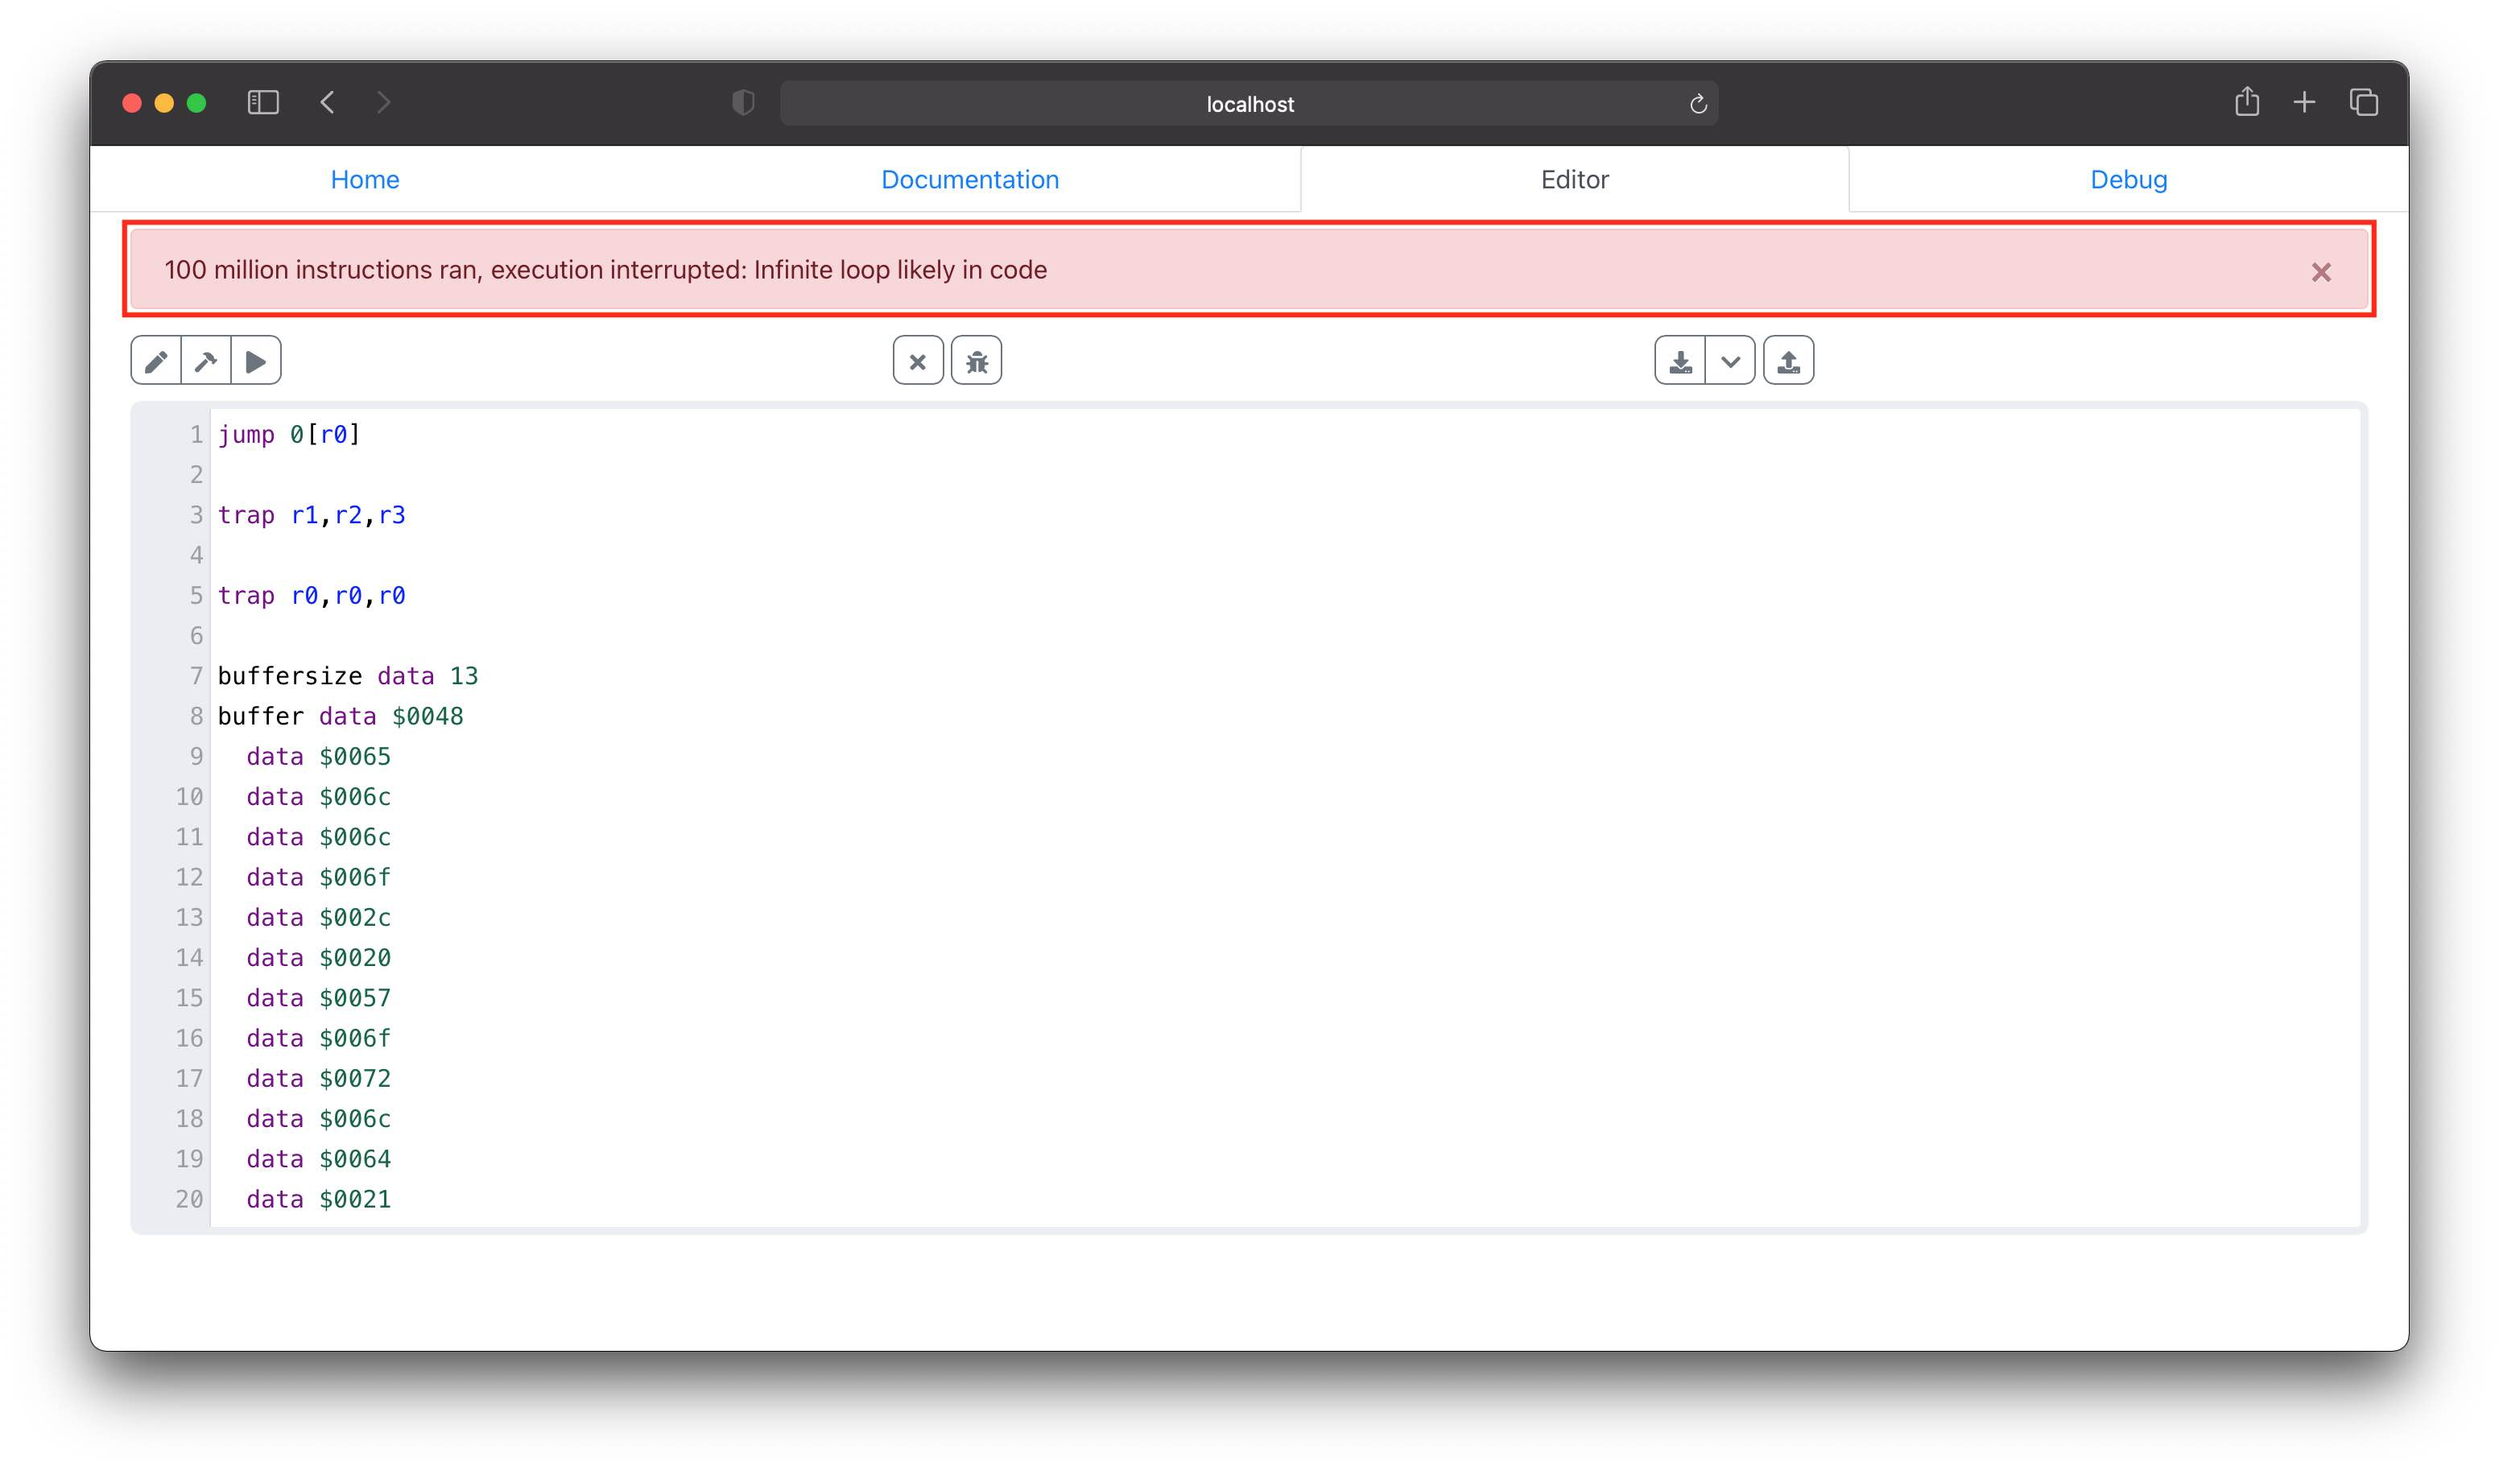
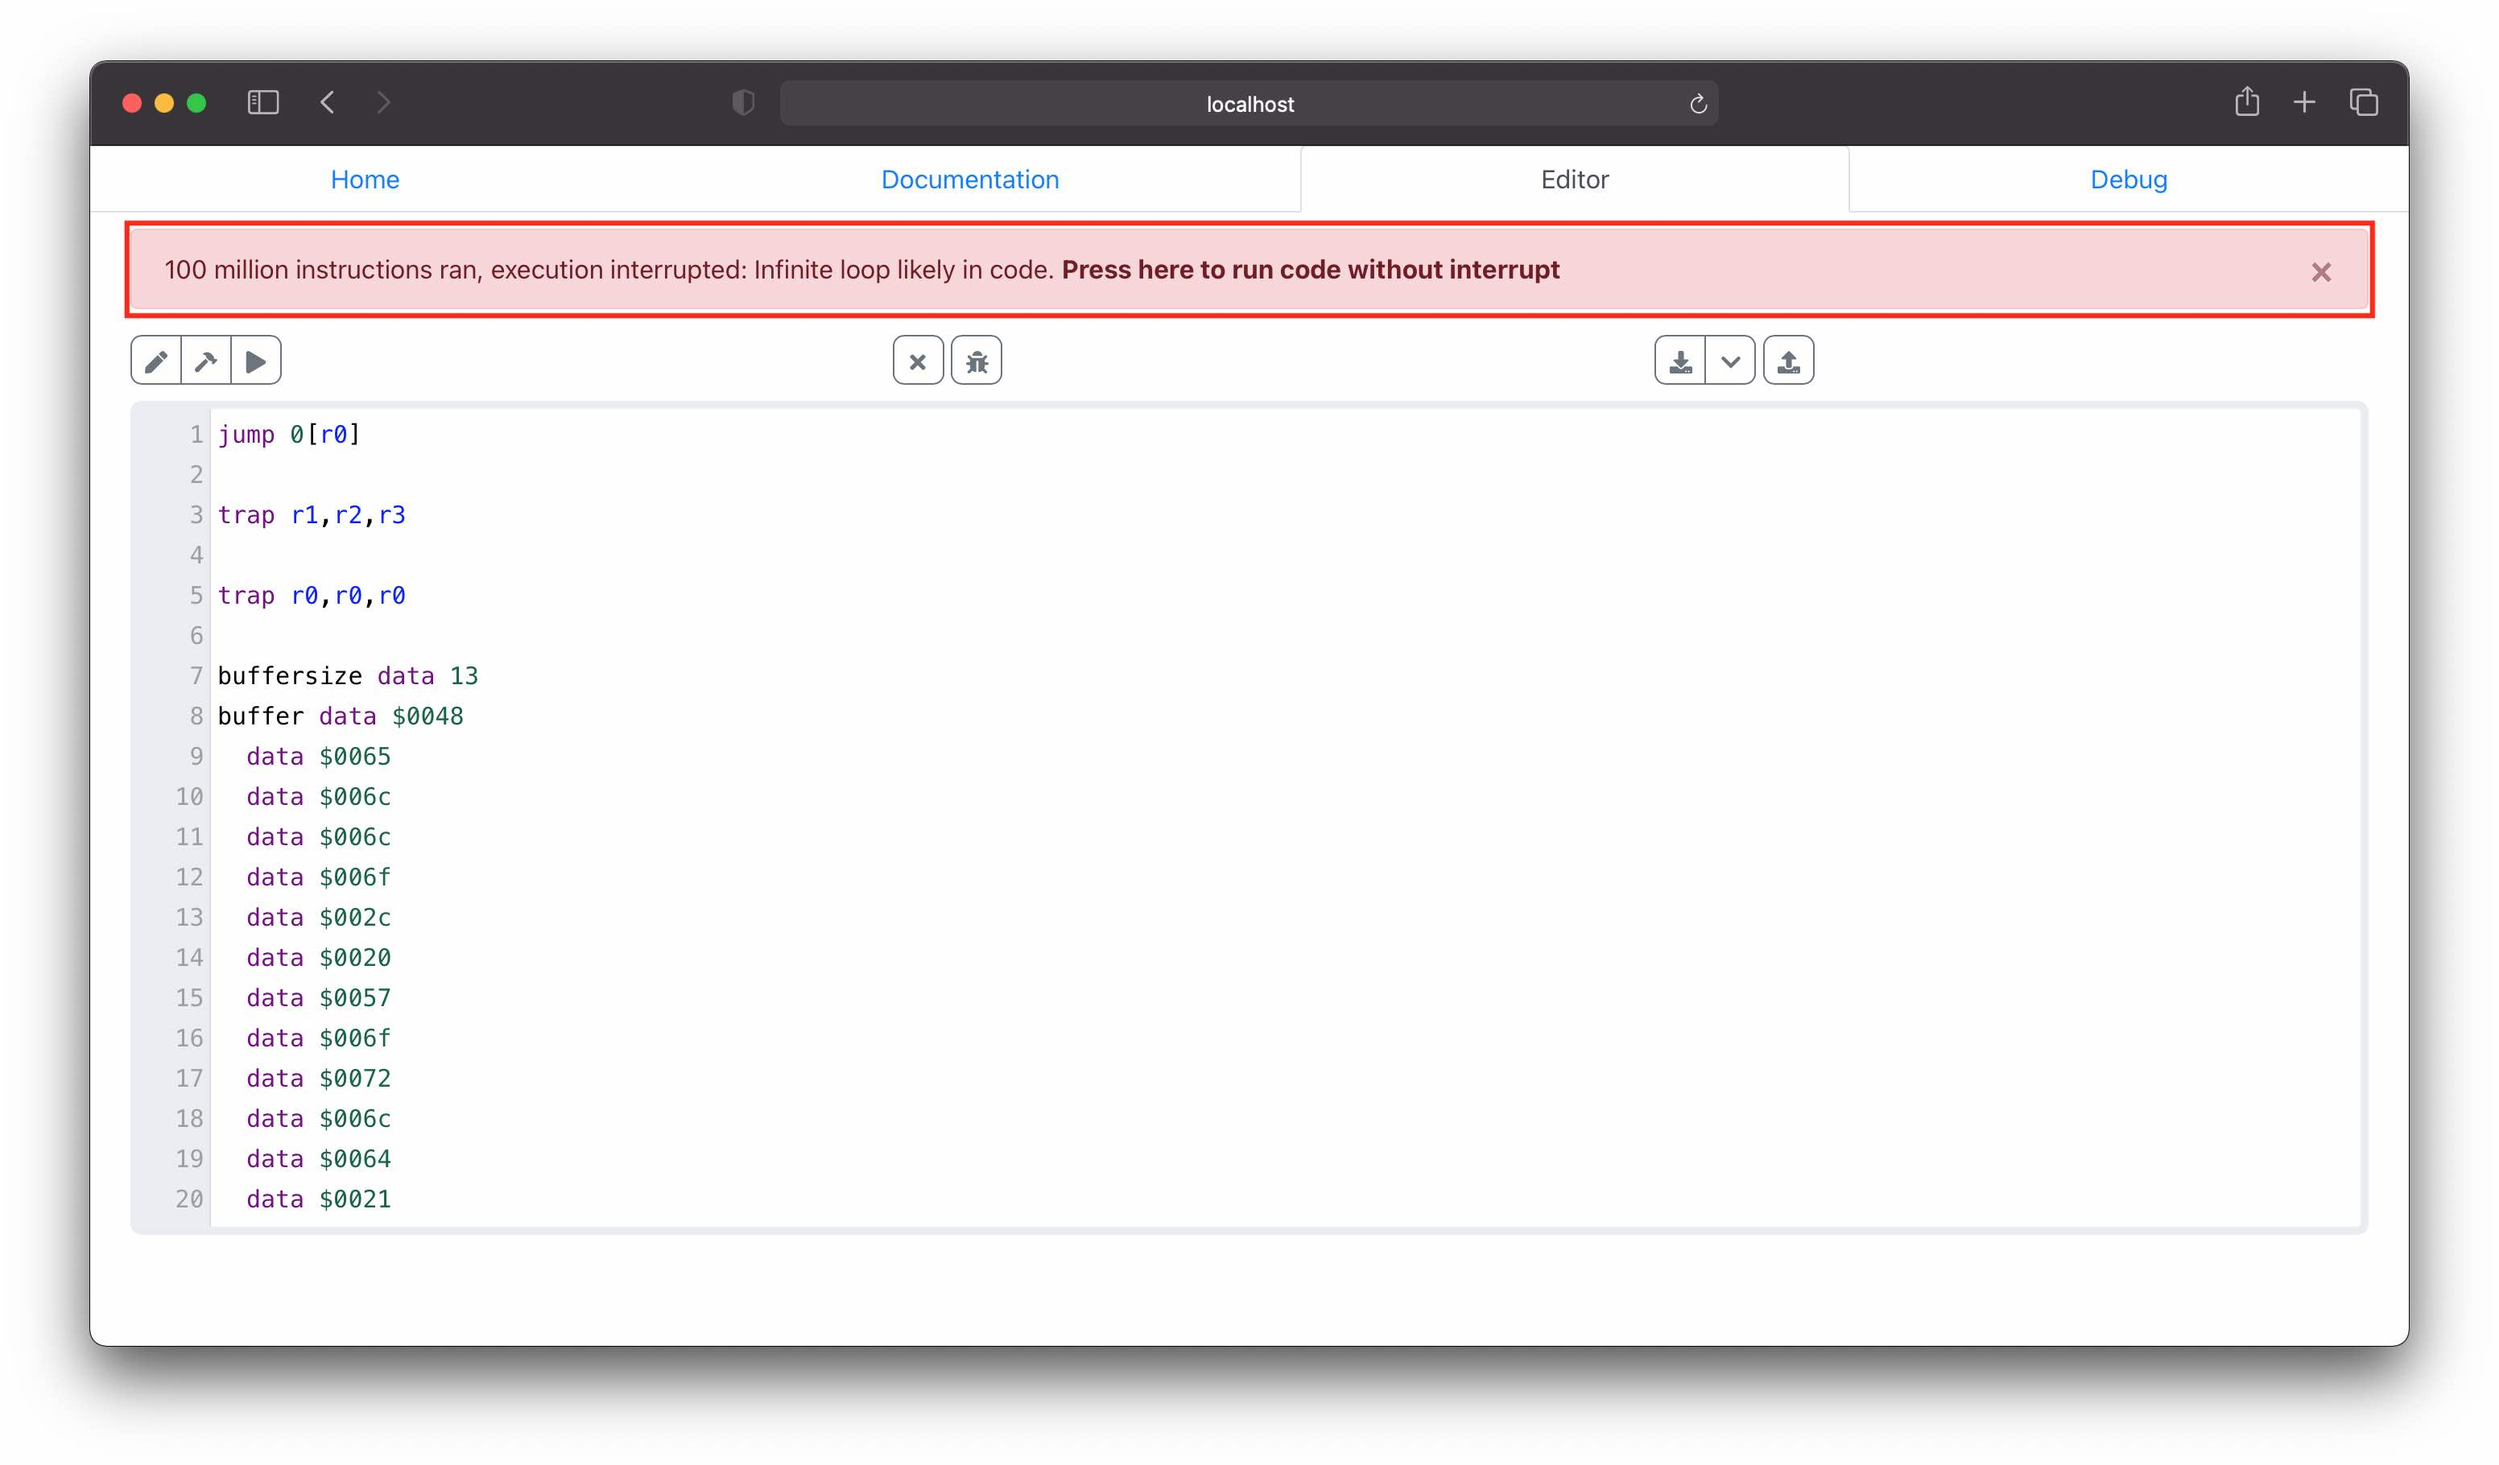
added documemtation for optionality

diff --git a/src/components/DocumentationView.js b/src/components/DocumentationView.js
@@ -2001,7 +2001,18 @@ export default class DocumentationView extends React.Component {
                       
                       <img style={{width : '100%', height : '100%'}} src={`${process.env.PUBLIC_URL}/docs/debugging12.jpg`} alt='Red box around infinite loop error'/><br/>
 
-                      The <strong>results</strong> of running the program till that point will however still be <strong>displayed</strong>
+                      The <strong>results</strong> of running the program till that point will however still be <strong>displayed</strong> <br/>
+
+                      <br/>
+
+                      There is the <strong>option</strong> to, however, <strong>run</strong> the program <strong>without</strong> the <strong>interrupt</strong>. <strong>However</strong>, this is <strong>risky</strong> as <strong>if</strong> there is an <strong>infinite</strong> loop, the <strong>website</strong> will <strong>hang</strong> <br/>
+                      This can be done by <strong>pressing</strong> the enboldened <strong>text</strong> in the alert <br/>
+
+                      <br/>
+
+                      This <strong>interrupt</strong> pauses execution in <strong>both</strong> the Editor and Debug <strong>tabs</strong> <br/>
+
+                      <img style={{width : '100%', height : '100%'}} src={`${process.env.PUBLIC_URL}/docs/debugging13.jpg`} alt='Red box around infinite loop error in Debug tab'/><br/>
                     </div>
                   </InfoArea>
                   <InfoArea state={this.state} title={'Semantic errors - Debugger'} depth={3}>
